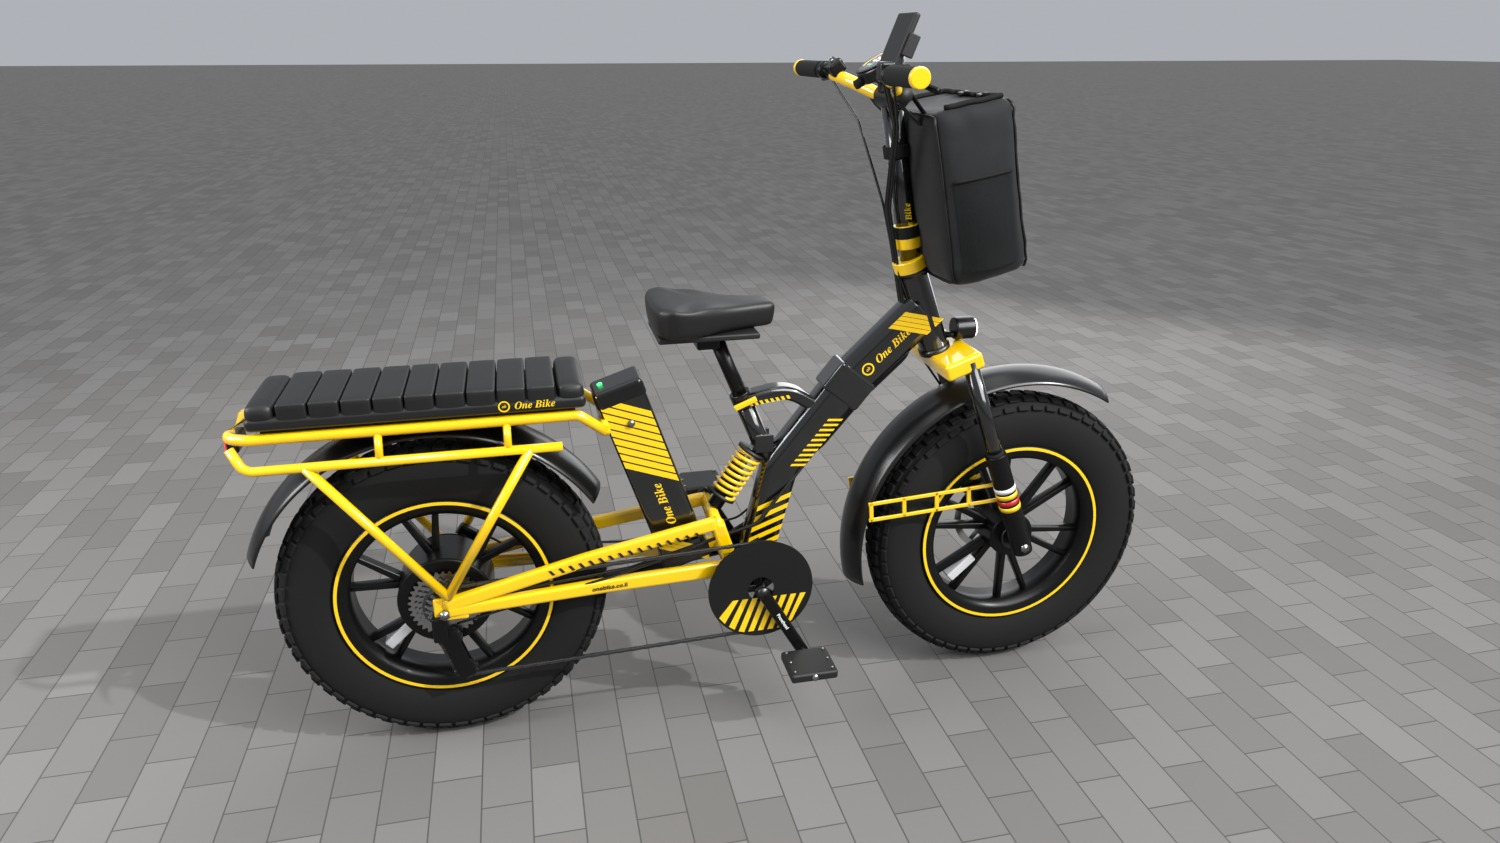
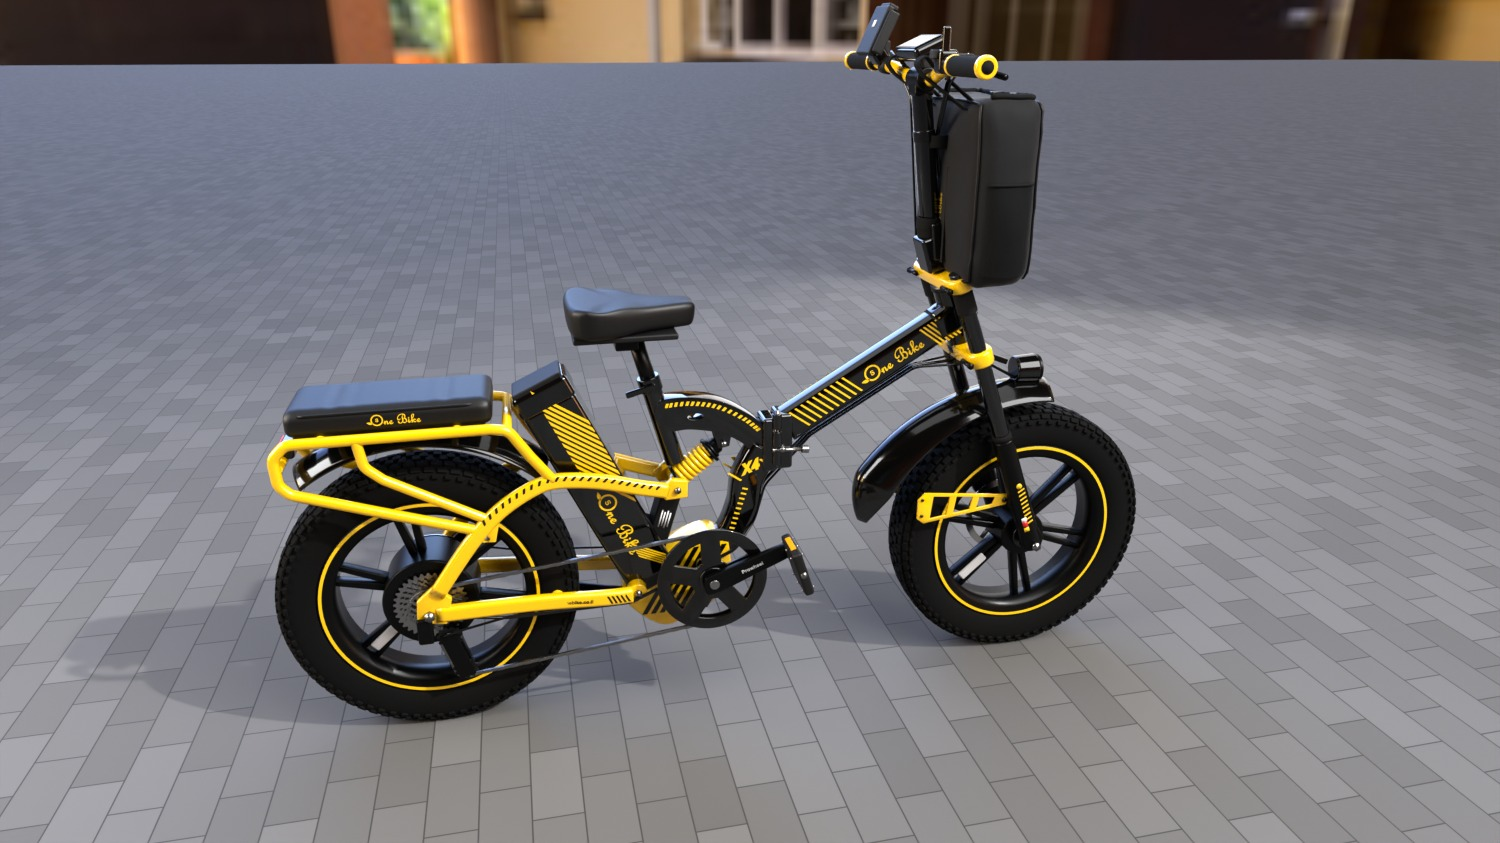
GTA export on Windows, new package files and renders
- sz.py: use the Sollumz extension installed in Blender (Windows) or the
  bscripts clone (Linux); lib.reset_scene(keep_prefs=True) keeps add-ons.
- export.py: Sollumz module path from sz.PKG; native .yft through
  PyMateria when present; bones moved to the photo-measured model (crank
  angle, grips on the bar line, display, saddle); collision boxes and
  wheel discs (TYRE_R) re-fitted; bell on the handlebars bone.
- Display texture 1024x512 (round gauge centred on the colour screen).
- Logo: French Script on Windows, thinner strokes, bigger emblem ring with
  a bold S.
- vehicles.meta wheelScale 0.295 (photo-measured tyre).
- README: binaries are made and checked on Windows; home server path.
- docs/renders refreshed (photo-angle compare uses the solved camera).

diff --git a/blender/export.py b/blender/export.py
@@ -75,15 +75,16 @@ def P(x, yz):
 def bone_table():
     """(name, parent, armature-space matrix) in the vanilla Inductor order."""
     b = build
-    yc, zc = b.STEM_TOP[0] - 0.002, b.STEM_TOP[1] + 0.017
-    pe_r = (b.BB[0] + 0.17 * math.cos(math.radians(-60)), b.BB[1] + 0.17 * math.sin(math.radians(-60)))
-    pe_l = (b.BB[0] + 0.17 * math.cos(math.radians(120)), b.BB[1] + 0.17 * math.sin(math.radians(120)))
+    yc, zc = b.BAR[0], b.BAR[1]                     # handlebar grip line
+    pe_r = (b.BB[0] + 0.17 * math.cos(math.radians(b.CRANK_DEG)), b.BB[1] + 0.17 * math.sin(math.radians(b.CRANK_DEG)))
+    pe_l = (b.BB[0] - (pe_r[0] - b.BB[0]), b.BB[1] - (pe_r[1] - b.BB[1]))
     head = Matrix.Translation(P(0, b.HT_TOP)) @ STEER
     t = lambda v: Matrix.Translation(v)
+    seat = (b.SEAT_B[0] - 0.035, b.SEAT_B[1] + 0.165)   # top of the saddle, where the rider sits
     return [
         ('chassis', None, t(P(0, (0, ORIGIN_Z)))),
         ('chassis_lowlod', 'chassis', t(P(0, (0, ORIGIN_Z)))),
-        ('seat_f', 'chassis', t(P(0, (-0.08, 0.87)))),
+        ('seat_f', 'chassis', t(P(0, seat))),
         ('crank', 'chassis', t(P(0, b.BB))),
         ('pedal_l', 'crank', t(P(-0.14, pe_l))),
         ('pedal_r', 'crank', t(P(0.185, pe_r))),
@@ -95,8 +96,8 @@ def bone_table():
         ('wheelmeshbk_r_l2', 'wheel_lr', t(P(0, b.RA))),
         ('wheelmeshbk_r_ng', 'wheel_lr', t(P(0, b.RA))),
         ('handlebars', 'chassis', head),
-        ('hbgrip_l', 'handlebars', t(Vector((-0.27, yc - 0.08, zc + 0.045 - ORIGIN_Z)))),
-        ('hbgrip_r', 'handlebars', t(Vector((0.27, yc - 0.08, zc + 0.045 - ORIGIN_Z)))),
+        ('hbgrip_l', 'handlebars', t(Vector((-0.27, yc, zc - ORIGIN_Z)))),
+        ('hbgrip_r', 'handlebars', t(Vector((0.27, yc, zc - ORIGIN_Z)))),
         ('forks_u', 'chassis', Matrix.Translation(P(0, b.HB)) @ STEER),
         ('forks_l', 'forks_u', Matrix.Translation(P(0, b.add(b.FA, b.UP, 0.24))) @ STEER),
         ('wheel_lf', 'forks_l', t(P(0, b.FA))),
@@ -104,7 +105,7 @@ def bone_table():
         ('wheelmeshbk_f_l1', 'wheel_lf', t(P(0, b.FA))),
         ('wheelmeshbk_f_l2', 'wheel_lf', t(P(0, b.FA))),
         ('wheelmeshbk_f_ng', 'wheel_lf', t(P(0, b.FA))),
-        ('dials', 'chassis', t(Vector((0, yc - 0.02, zc + 0.045 - ORIGIN_Z)))),
+        ('dials', 'chassis', t(Vector((0, b.STEM_TOP[0] - 0.006, b.STEM_TOP[1] + 0.068 - ORIGIN_Z)))),
         ('headlight_l', 'chassis', t(P(0, b.HEADLIGHT))),
         ('chassis_dummy', 'chassis', t(P(0, (0, ORIGIN_Z)))),
     ]
@@ -112,7 +113,7 @@ def bone_table():
 
 # Which bone each modelled part rides on in game (the steering parts split between
 # handlebars and forks_u, both of which the game turns with the steering input).
-HANDLEBAR_PARTS = ('stem', 'bar_', 'handlebar', 'grip', 'lever', 'throttle', 'remote', 'display', 'phone',
+HANDLEBAR_PARTS = ('stem', 'bar_', 'handlebar', 'grip', 'lever', 'throttle', 'bell', 'remote', 'display', 'phone',
                    'decal_logo_stem')
 
 
@@ -233,17 +234,17 @@ def main():
     info = textures.generate(tex_dir)
     textures.write_ytd_xml(info, os.path.join(out, 'onebike.ytd.xml'))
 
-    lib.reset_scene()
+    lib.reset_scene(keep_prefs=True)       # keep the user's add-ons (Sollumz extension on Windows)
     lib.make_materials()
     sz.enable()
-    SollumType = importlib.import_module('sollumz_dev.sollumz_properties').SollumType
-    LODLevel = importlib.import_module('sollumz_dev.sollumz_properties').LODLevel
-    bh = importlib.import_module('sollumz_dev.tools.blenderhelper')
-    dh = importlib.import_module('sollumz_dev.tools.drawablehelper')
-    boundh = importlib.import_module('sollumz_dev.tools.boundhelper')
-    meshh = importlib.import_module('sollumz_dev.tools.meshhelper')
-    colmats = importlib.import_module('sollumz_dev.ybn.collision_materials')
-    shader_mats_mod = importlib.import_module('sollumz_dev.ydr.shader_materials')
+    mod = lambda name: importlib.import_module(sz.PKG + '.' + name)
+    SollumType = mod('sollumz_properties').SollumType
+    LODLevel = mod('sollumz_properties').LODLevel
+    bh = mod('tools.blenderhelper')
+    dh = mod('tools.drawablehelper')
+    meshh = mod('tools.meshhelper')
+    colmats = mod('ybn.collision_materials')
+    shader_mats_mod = mod('ydr.shader_materials')
 
     bones = bone_table()
     bone_mats = {name: m for name, _p, m in bones}
@@ -337,12 +338,13 @@ def main():
         bh.add_child_of_bone_constraint(obj, frag, bone)
 
     z = -ORIGIN_Z
-    boxes = [
-        ('frame', (0.12, 0.80, 0.50), (0.0, 0.07, 0.60 + z), 12.0),
-        ('rear', (0.24, 0.70, 0.14), (0.0, -0.62, 0.72 + z), 6.0),
-        ('cockpit', (0.70, 0.36, 0.40), (0.0, 0.33, 1.12 + z), 5.0),
-        ('saddle', (0.22, 0.27, 0.10), (0.0, -0.07, 0.86 + z), 2.0),
-        ('drive', (0.42, 0.30, 0.24), (0.0, 0.02, 0.30 + z), 5.0),
+    boxes = [   # matched to the photo-measured model (see build.py)
+        ('frame', (0.12, 0.76, 0.42), (0.0, 0.12, 0.63 + z), 12.0),
+        ('rear', (0.22, 0.52, 0.12), (0.0, -0.64, 0.72 + z), 6.0),
+        ('battery', (0.10, 0.20, 0.42), (0.0, -0.30, 0.54 + z), 5.0),
+        ('cockpit', (0.68, 0.30, 0.46), (0.0, 0.43, 1.15 + z), 5.0),
+        ('saddle', (0.22, 0.27, 0.10), (0.0, -0.227, 0.88 + z), 2.0),
+        ('drive', (0.30, 0.34, 0.22), (0.0, -0.11, 0.31 + z), 5.0),
     ]
     for name, size, center, mass in boxes:
         obj = bh.create_blender_object(SollumType.BOUND_BOX, f'col_{name}')
@@ -350,13 +352,20 @@ def main():
         bound(obj, 'chassis', car_metal, mass)
     for bone in WHEEL_BONES:
         obj = bh.create_blender_object(SollumType.BOUND_DISC, f'col_{bone}')
-        meshh.create_disc(obj.data, radius=0.33, length=0.10)
+        meshh.create_disc(obj.data, radius=build.TYRE_R, length=0.10)
         bound(obj, bone, rubber, 7.0)
 
     bpy.ops.wm.save_as_mainfile(filepath=os.path.join(out, 'onebike_gta.blend'))
+    # CodeWalker XML always; binary .yft too when Sollumz has PyMateria (the Windows install has it)
+    formats = {'CWXML'}
+    try:
+        import pymateria  # noqa: F401
+        formats.add('NATIVE')
+    except ImportError:
+        pass
     res = bpy.ops.sollumz.export_assets(directory=out + os.sep, direct_export=True, use_custom_settings=True,
-                                        target_formats={'CWXML'}, target_versions={'GEN8'}, limit_to_selected=False)
-    print('export result', res, flush=True)
+                                        target_formats=formats, target_versions={'GEN8'}, limit_to_selected=False)
+    print('export result', res, sorted(formats), flush=True)
 
 
 main()

diff --git a/blender/lib.py b/blender/lib.py
@@ -14,9 +14,9 @@ from mathutils import Matrix, Vector
 V = Vector
 FONT_SCRIPT = '/usr/share/fonts/truetype/freefont/FreeSerifBoldItalic.ttf'
 FONT_SANS = '/usr/share/fonts/truetype/freefont/FreeSansBold.ttf'
-# Windows has no GNU FreeFont: the logo script is closest to Edwardian Script (the 'B' loop), FreeSans is an
-# Arial clone.
-WIN_FONTS = {'FreeSerifBoldItalic.ttf': 'ITCEDSCR.TTF', 'FreeSansBold.ttf': 'arialbd.ttf'}
+# Windows has no GNU FreeFont: the logo script is closest to French Script (looped 'B', clean 'ne' without long
+# hairlines), FreeSans is an Arial clone.
+WIN_FONTS = {'FreeSerifBoldItalic.ttf': 'FRSCRIPT.TTF', 'FreeSansBold.ttf': 'arialbd.ttf'}
 
 COLLECTION = None
 MATS = {}
@@ -27,8 +27,12 @@ def n(value, lo=3):
     return max(lo, int(round(value * DETAIL)))
 
 
-def reset_scene():
-    bpy.ops.wm.read_factory_settings(use_empty=True)
+def reset_scene(keep_prefs=False):
+    """Empty scene. keep_prefs keeps the user's preferences (and so their installed add-ons, e.g. Sollumz)."""
+    if keep_prefs:
+        bpy.ops.wm.read_homefile(use_empty=True)
+    else:
+        bpy.ops.wm.read_factory_settings(use_empty=True)
     MATS.clear()
     new_collection('OneBike')
 
@@ -117,11 +121,7 @@ def make_materials():
     import os
     import textures
     path = os.path.join(os.path.dirname(os.path.abspath(__file__)), 'display.png')
-    from PIL import Image
-    sq = textures.display_image()                  # round gauge, centred on a wide black colour screen
-    wide = Image.new('RGBA', (int(sq.height * 1.83), sq.height), (0, 0, 0, 255))
-    wide.paste(sq, ((wide.width - sq.width) // 2, 0))
-    wide.save(path)
+    textures.display_wide().save(path)             # round gauge centred on the 2:1 colour screen
     image_material('screen_display', path, 1.8)
 
 
@@ -601,14 +601,14 @@ def logo(name, center, read_dir, side_sign, offset_x, size, mat, bone):
     """The One Bike badge as on the bike: a round emblem with a leaf swoosh standing in for the 'O',
     followed by 'ne Bike' in a calligraphic script, on a +/-X facing surface."""
     m = side_matrix(center, read_dir, side_sign, offset_x)
-    ob = text(name, 'ne Bike', size * 1.6, mat, bone, m, bold=0.03)    # the script has a small x-height
+    ob = text(name, 'ne Bike', size * 1.6, mat, bone, m, bold=0.010)   # the script has a small x-height
     if ob is None:
         return
     bpy.context.view_layer.update()
     w = ob.dimensions.x
     d = V(m.col[0][:3])
-    ring_r = 0.42 * size
-    total = w + 2 * ring_r + 0.05 * size
+    ring_r = 0.52 * size
+    total = w + 2 * ring_r - 0.02 * size
     ob.matrix_world = Matrix.Translation(d * (total / 2 - w / 2)) @ m
     emblem_m = Matrix.Translation(d * -(total / 2 - ring_r) + V(m.col[1][:3]) * (0.06 * size)) @ m
     bm = bmesh.new()
@@ -638,7 +638,7 @@ def logo(name, center, read_dir, side_sign, offset_x, size, mat, bone):
     bm.to_mesh(me)
     bm.free()
     link(bpy.data.objects.new(name + '_ring', me), bone, mat)
-    text(name + '_mark', 'S', size * 0.62, mat, bone, emblem_m, bold=0.03)
+    text(name + '_mark', 'S', size * 0.62, mat, bone, emblem_m, font_path=FONT_SANS)  # bold S inside the ring
 
 
 # ------------------------------------------------------------------- scene

diff --git a/blender/build.py b/blender/build.py
@@ -15,6 +15,7 @@ from lib import V
 RA = (-0.648, 0.33)
 FA = (0.648, 0.33)
 BB = (-0.083, 0.335)
+CRANK_DEG = 21.0                        # right crank angle in the photo (forward and up)
 PV = (-0.236, 0.305)
 SN = (-0.144, 0.525)
 FM = (-0.040, 0.604)
@@ -805,7 +806,7 @@ def cockpit():
     lib.box('display_housing', (0.108, 0.066, 0.024), 'plastic_gloss', 'forks_u', matrix=dm, bevel=0.009)
     lib.box('display_bezel', (0.1, 0.058, 0.002), 'alloy_black', 'forks_u',
             matrix=dm @ Matrix.Translation(V((0, 0, 0.0122))), bevel=0.001)
-    lib.rect_uv('display_screen', dc + n_ * 0.0134, u_, v_, 0.088, 0.048, 'screen_display', 'forks_u')
+    lib.rect_uv('display_screen', dc + n_ * 0.0134, u_, v_, 0.092, 0.046, 'screen_display', 'forks_u')
     lib.box('display_mount', (0.022, 0.03, 0.05), 'plastic_black', 'forks_u',
             matrix=lib.basis(u_, n_.cross(u_), n_, dc - n_ * 0.03 + v_ * 0.004), bevel=0.004)
 
@@ -1019,7 +1020,7 @@ def drivetrain():
                  bevel=0.002)
 
     # crank arms and pedals
-    for s, ang, bone in ((1, 21.0, 'pedal_r'), (-1, 201.0, 'pedal_l')):
+    for s, ang, bone in ((1, CRANK_DEG, 'pedal_r'), (-1, CRANK_DEG + 180.0, 'pedal_l')):
         a = math.radians(ang)
         pe = (BB[0] + 0.17 * math.cos(a), BB[1] + 0.17 * math.sin(a))
         x = 0.117 if s > 0 else -0.072

diff --git a/blender/sz.py b/blender/sz.py
@@ -1,13 +1,29 @@
-"""Enable the Sollumz add-on inside the bpy module."""
+"""Enable the Sollumz add-on.
+
+Linux container: the bpy module with Sollumz cloned into blender/bscripts/addons/sollumz_dev (setup.sh).
+Windows PC: the Sollumz extension installed in Blender from repo.sollumz.org (bl_ext.sollumz_repo.sollumz);
+run Blender WITHOUT --factory-startup so the user's preferences (and the extension) are loaded.
+PKG is the package name to import Sollumz modules from.
+"""
 import os
 
 import addon_utils
 import bpy
 
 SCRIPTS = os.path.join(os.path.dirname(os.path.abspath(__file__)), 'bscripts')
+EXTENSION = 'bl_ext.sollumz_repo.sollumz'
+PKG = 'sollumz_dev'
+
+
+def extension_enabled():
+    return any(a.module == EXTENSION for a in bpy.context.preferences.addons)
 
 
 def enable():
+    global PKG
+    if extension_enabled():
+        PKG = EXTENSION
+        return EXTENSION
     prefs = bpy.context.preferences
     if not any(d.directory == SCRIPTS for d in prefs.filepaths.script_directories):
         d = prefs.filepaths.script_directories.new()
@@ -17,4 +33,5 @@ def enable():
     mod = addon_utils.enable('sollumz_dev', default_set=True, handle_error=None)
     if mod is None:
         raise RuntimeError('Sollumz failed to enable')
+    PKG = 'sollumz_dev'
     return mod

diff --git a/blender/textures.py b/blender/textures.py
@@ -132,8 +132,16 @@ def display_image(size=512, speed=25, pas=3, battery=4, odo='1248.6', trip='12.4
     return img
 
 
+def display_wide():
+    """The rectangular colour display: round gauge centred on a 2:1 black screen (power-of-two for the game)."""
+    sq = display_image(512)
+    wide = Image.new('RGBA', (1024, 512), (0, 0, 0, 255))
+    wide.paste(sq, (256, 0))
+    return wide
+
+
 TEXTURES = {
-    'onebike_display': display_image,
+    'onebike_display': display_wide,
     'onebike_white': lambda: solid((255, 255, 255)),
     'onebike_spec': lambda: solid((190, 190, 190)),
     'onebike_dirt': lambda: noise((118, 104, 86), 30, 64, 1.2, 3),

diff --git a/blender/verify.py b/blender/verify.py
@@ -18,7 +18,7 @@ import sz  # noqa: E402
 def main():
     src, out = sys.argv[1], sys.argv[2]
     os.makedirs(out, exist_ok=True)
-    bpy.ops.wm.read_factory_settings(use_empty=True)
+    lib.reset_scene(keep_prefs=True)       # keep the user's add-ons (Sollumz extension on Windows)
     sz.enable()
     res = bpy.ops.sollumz.import_assets(directory=src + os.sep, files=[{'name': 'onebike.yft.xml'}])
     print('import', res)

diff --git a/resource/cyphercity-onebike/README.md b/resource/cyphercity-onebike/README.md
@@ -2,7 +2,7 @@
 
 # One Bike: אופניים חשמליים לשרת CypherCity
 
-משאב FiveM לאופניים החשמליים של One Bike, בנויים לפי התמונה: צמיגים שמנים, שחור־צהוב, ומדוושים כמו אופניים.
+משאב FiveM לאופניים החשמליים של One Bike, בנויים אחד לאחד לפי התמונה: כל חלק נמדד מהתמונה עצמה, דרך מצלמה שחושבה מהפסים הצהובים על החישוקים. צמיגים שמנים, שחור־צהוב, ומדוושים כמו אופניים.
 תמונות של המודל: [`docs/renders`](docs/renders). התמונה המקורית: [`docs/reference.jpg`](docs/reference.jpg).
 
 ## מה מוכן
@@ -12,7 +12,7 @@
   * התנגשויות (collisions) לשלדה ולגלגלים.
   * 5 רמות פירוט: מקרוב בפירוט מלא, ומרחוק בגרסאות קלות שלא מכבידות על השרת.
   * פנס קדמי שנדלק עם האורות, ופנס אחורי אדום.
-  * צג דיגיטלי צבעוני ועגול על הכידון, שמאיר כל הזמן ומראה:
+  * צג דיגיטלי צבעוני מלבני על הכידון, שמאיר כל הזמן ומראה:
     * מהירות (25 קמ"ש) ומד עגול בצהוב.
     * רמת עזר (PAS 3).
     * סוללה, שעון, נורית פנס, ומד קילומטרים ונסיעה.
@@ -20,38 +20,25 @@
   * צבעים מהמשחק: השלדה בצבע הראשי (שחור) והחלקים הצהובים בצבע המשני (צהוב). אפשר לצבוע אותם מחדש במוסך.
 * **קבצי ההגדרות:** `fxmanifest.lua`, `data/vehicles.meta`, `data/carvariations.meta`, `client.lua`.
 
-## שלב אחד לפני ההתקנה: המרה לקבצי המשחק (Windows)
+## קבצי המשחק
 
-המודל מגיע בתיקייה `onebike-model-source` כקבצי XML של CodeWalker. את ההמרה האחרונה לקבצים בינאריים (`.yft` ו־`.ytd`) אפשר לעשות רק ב־Windows.
-
-**דרך א: CodeWalker (חינמי)**
-1. מורידים ופותחים את CodeWalker, ונכנסים ל־**RPF Explorer**.
-2. פותחים את התיקייה `onebike-model-source`.
-3. מייבאים את שלושת הקבצים עם **Import XML**:
-   * `onebike.yft.xml`
-   * `onebike_hi.yft.xml`
-   * `onebike.ytd.xml`
-
-   חשוב שהתיקייה `onebike`, עם קבצי ה־DDS, תישאר ליד הקבצים. ממנה נלקחות הטקסטורות.
-4. מתקבלים שלושה קבצים: `onebike.yft`, `onebike_hi.yft`, `onebike.ytd`. מעתיקים אותם לתיקייה `cyphercity-onebike/stream`.
-
-**דרך ב: Blender עם התוסף Sollumz ב־Windows**
-1. פותחים את `onebike-model-source/onebike_gta.blend`.
-2. מייצאים את האובייקט `onebike` ב־Sollumz בפורמט Native (בינארי).
-3. מעתיקים את הקבצים שנוצרו ל־`stream`.
+הקבצים הבינאריים כבר נמצאים בתיקייה `stream`: `onebike.yft`, `onebike_hi.yft` ו־`onebike.ytd`.
+הם יוצאו במחשב Windows: המודל דרך Sollumz בפורמט Native, והטקסטורות דרך CodeWalker. בדקתי ש־CodeWalker פותח את שלושתם.
+אם משנים את המודל, מייצאים מחדש עם `export.py` (ההוראות ב־`CLAUDE.md` שבמאגר).
 
 ## התקנה
 
 1. **בדיקה מקדימה:** השרת צריך לרוץ על גרסת משחק 2802 ומעלה, כלומר `sv_enforceGameBuild 2802` או גבוה יותר ב־`server.cfg`.
    הנסיעה והצליל לקוחים מאופני החשמל של המשחק (Inductor), שנוספו בגרסה הזאת.
 2. מעתיקים את התיקייה `cyphercity-onebike` לתיקייה `resources` בשרת.
-3. מוסיפים ל־`server.cfg` את השורה:
+   בשרת הביתי היא נמצאת ב־`resources/[selected_cars]`, והתיקייה הזאת כבר מופעלת ב־`server.cfg` (`ensure [selected_cars]`), כך שלא צריך להוסיף שורה.
+   בשרת אחר מוסיפים ל־`server.cfg` את השורה:
 
    ```
    ensure cyphercity-onebike
    ```
 
-4. מפעילים מחדש את השרת, ומוציאים את האופניים בשם **`onebike`**.
+3. מפעילים מחדש את השרת, ומוציאים את האופניים בשם **`onebike`**.
 
 ## מה לבדוק בפעם הראשונה
 
@@ -73,7 +60,7 @@
 ## עריכה של המודל
 
 המודל נבנה מקוד, ולכן אפשר לשנות בו מידות, צבעים ופרטים ולייצא מחדש.
-הקבצים נמצאים ב־`onebike-model-source/scripts`:
+הקבצים נמצאים במאגר, בתיקייה `blender`:
 * `build.py`: המודל עצמו.
 * `export.py`: הייצוא ל־GTA.
 * `render.py`: תמונות המודל.
